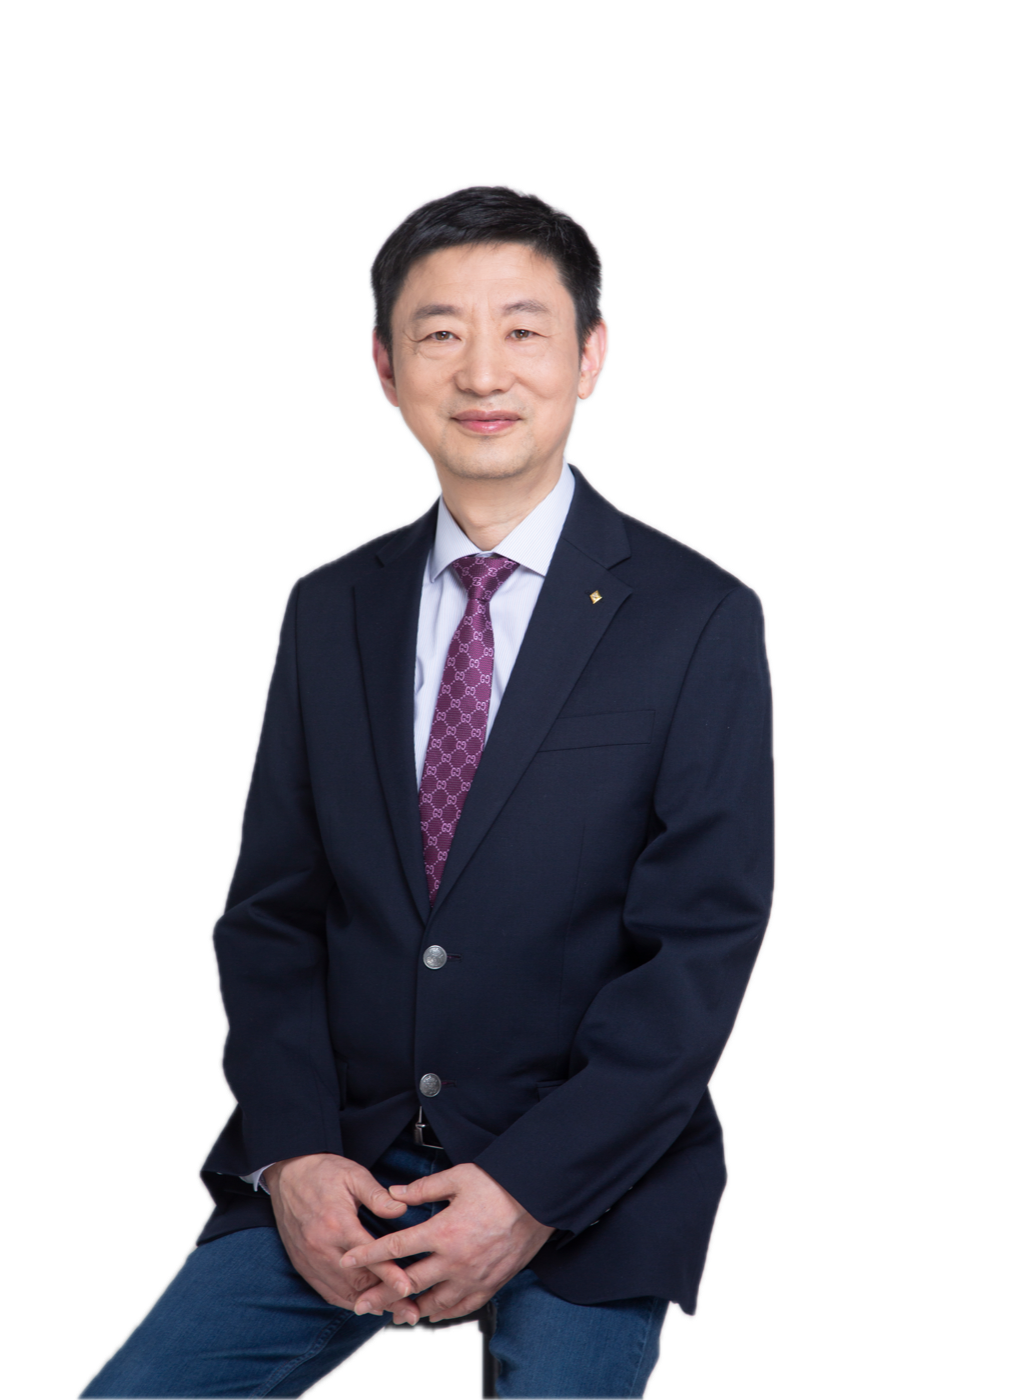
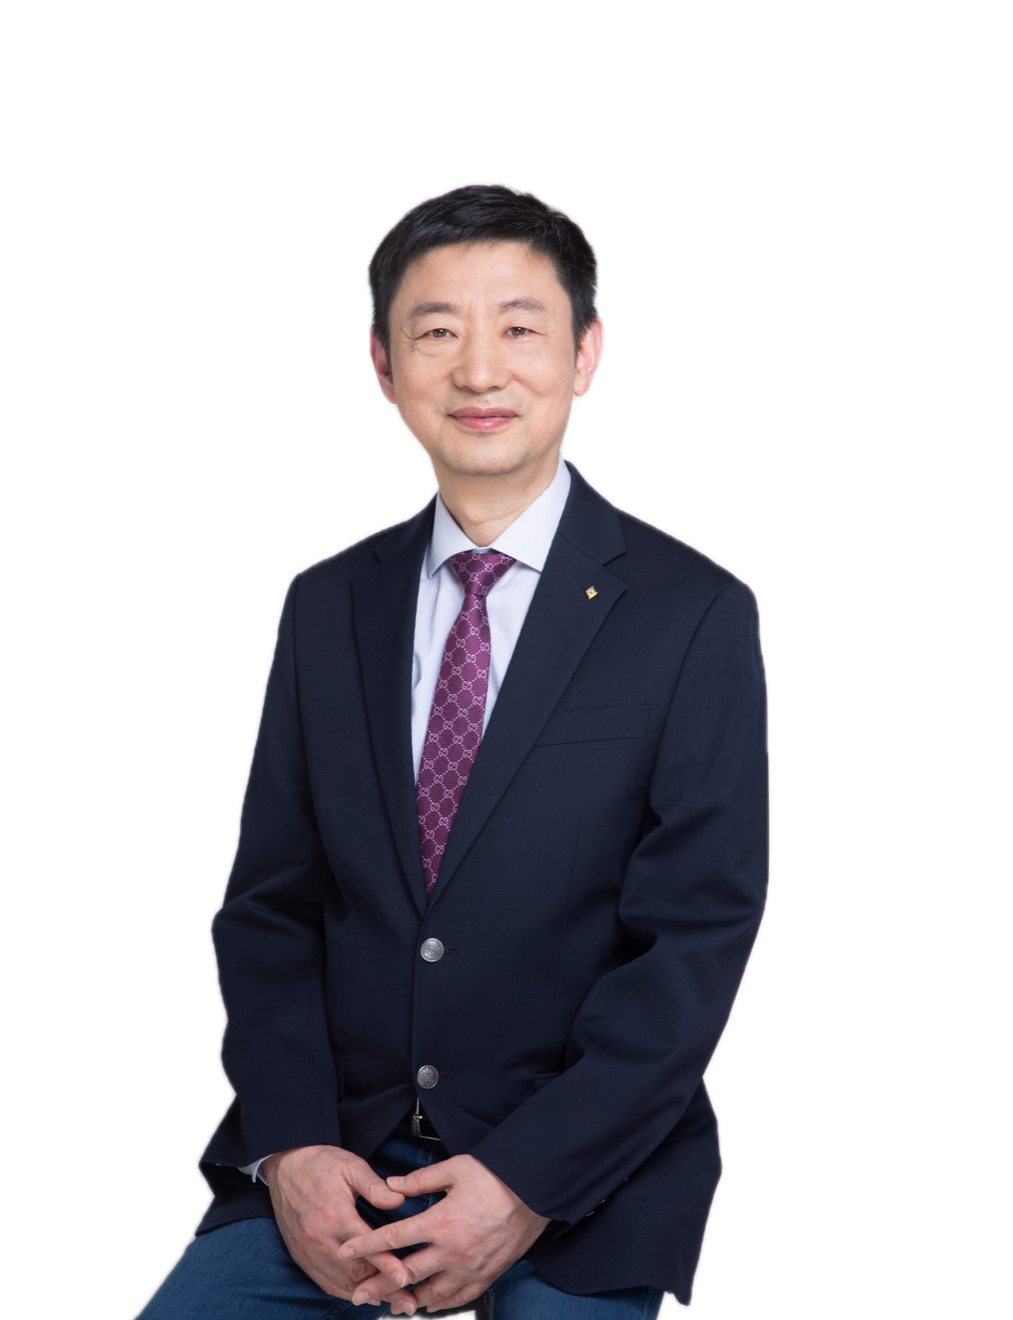
Crop hero portrait to the hands (drop the legs)
Re-cropped the cut-out to end just below the clasped hands so the jeans/legs
no longer show; softened the bottom mask fade to match.

diff --git a/src/styles/campaign-site.css b/src/styles/campaign-site.css
@@ -533,8 +533,8 @@
 .cs-hero__photo img {
   display: block;
   height: auto;
-  -webkit-mask-image: linear-gradient(180deg, #000 85%, transparent 100%);
-  mask-image: linear-gradient(180deg, #000 85%, transparent 100%);
+  -webkit-mask-image: linear-gradient(180deg, #000 92%, transparent 100%);
+  mask-image: linear-gradient(180deg, #000 92%, transparent 100%);
   width: 100%;
 }
 
